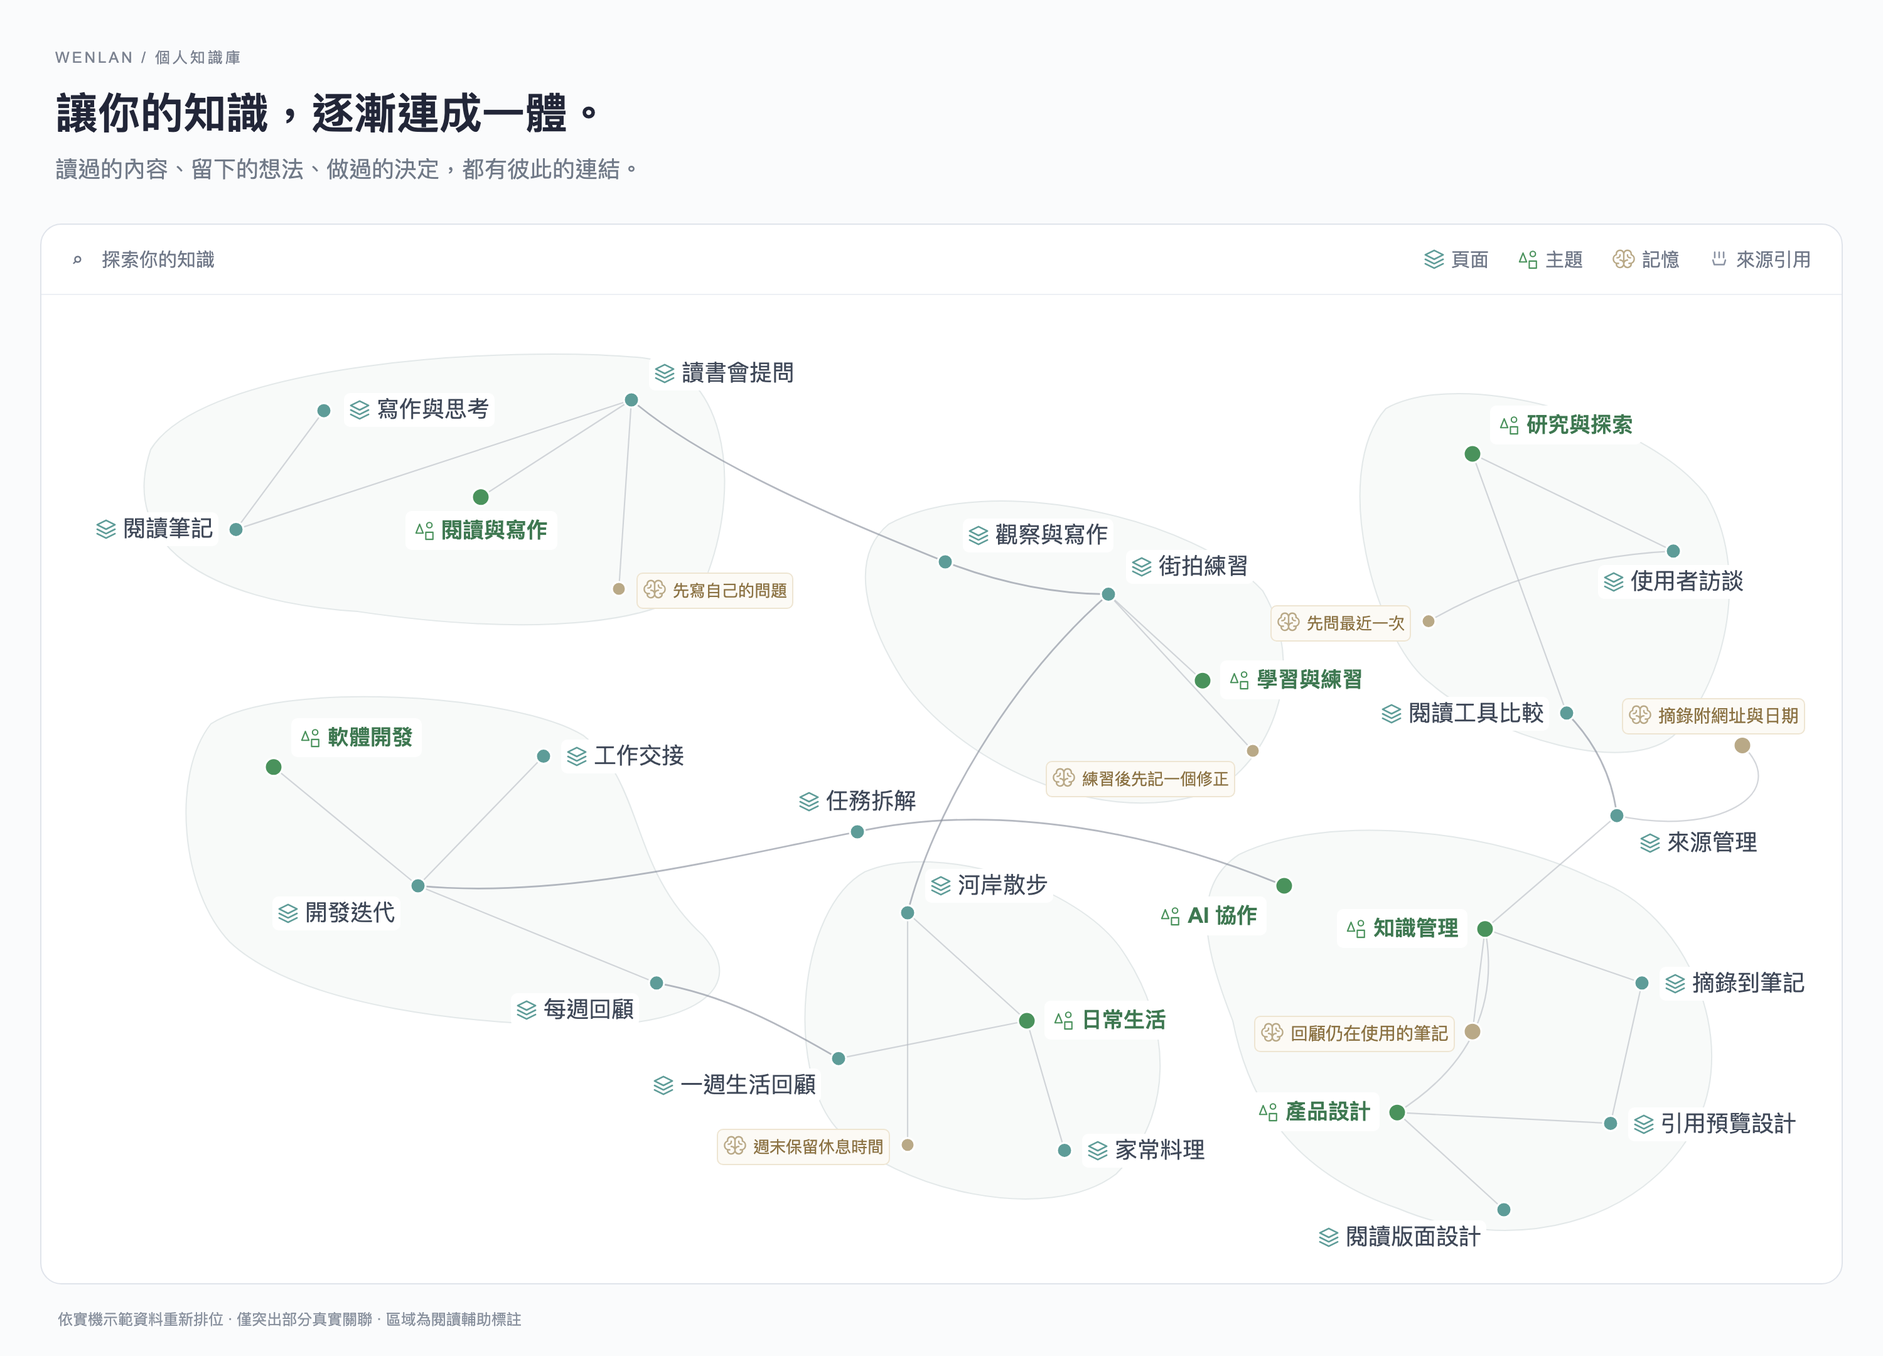
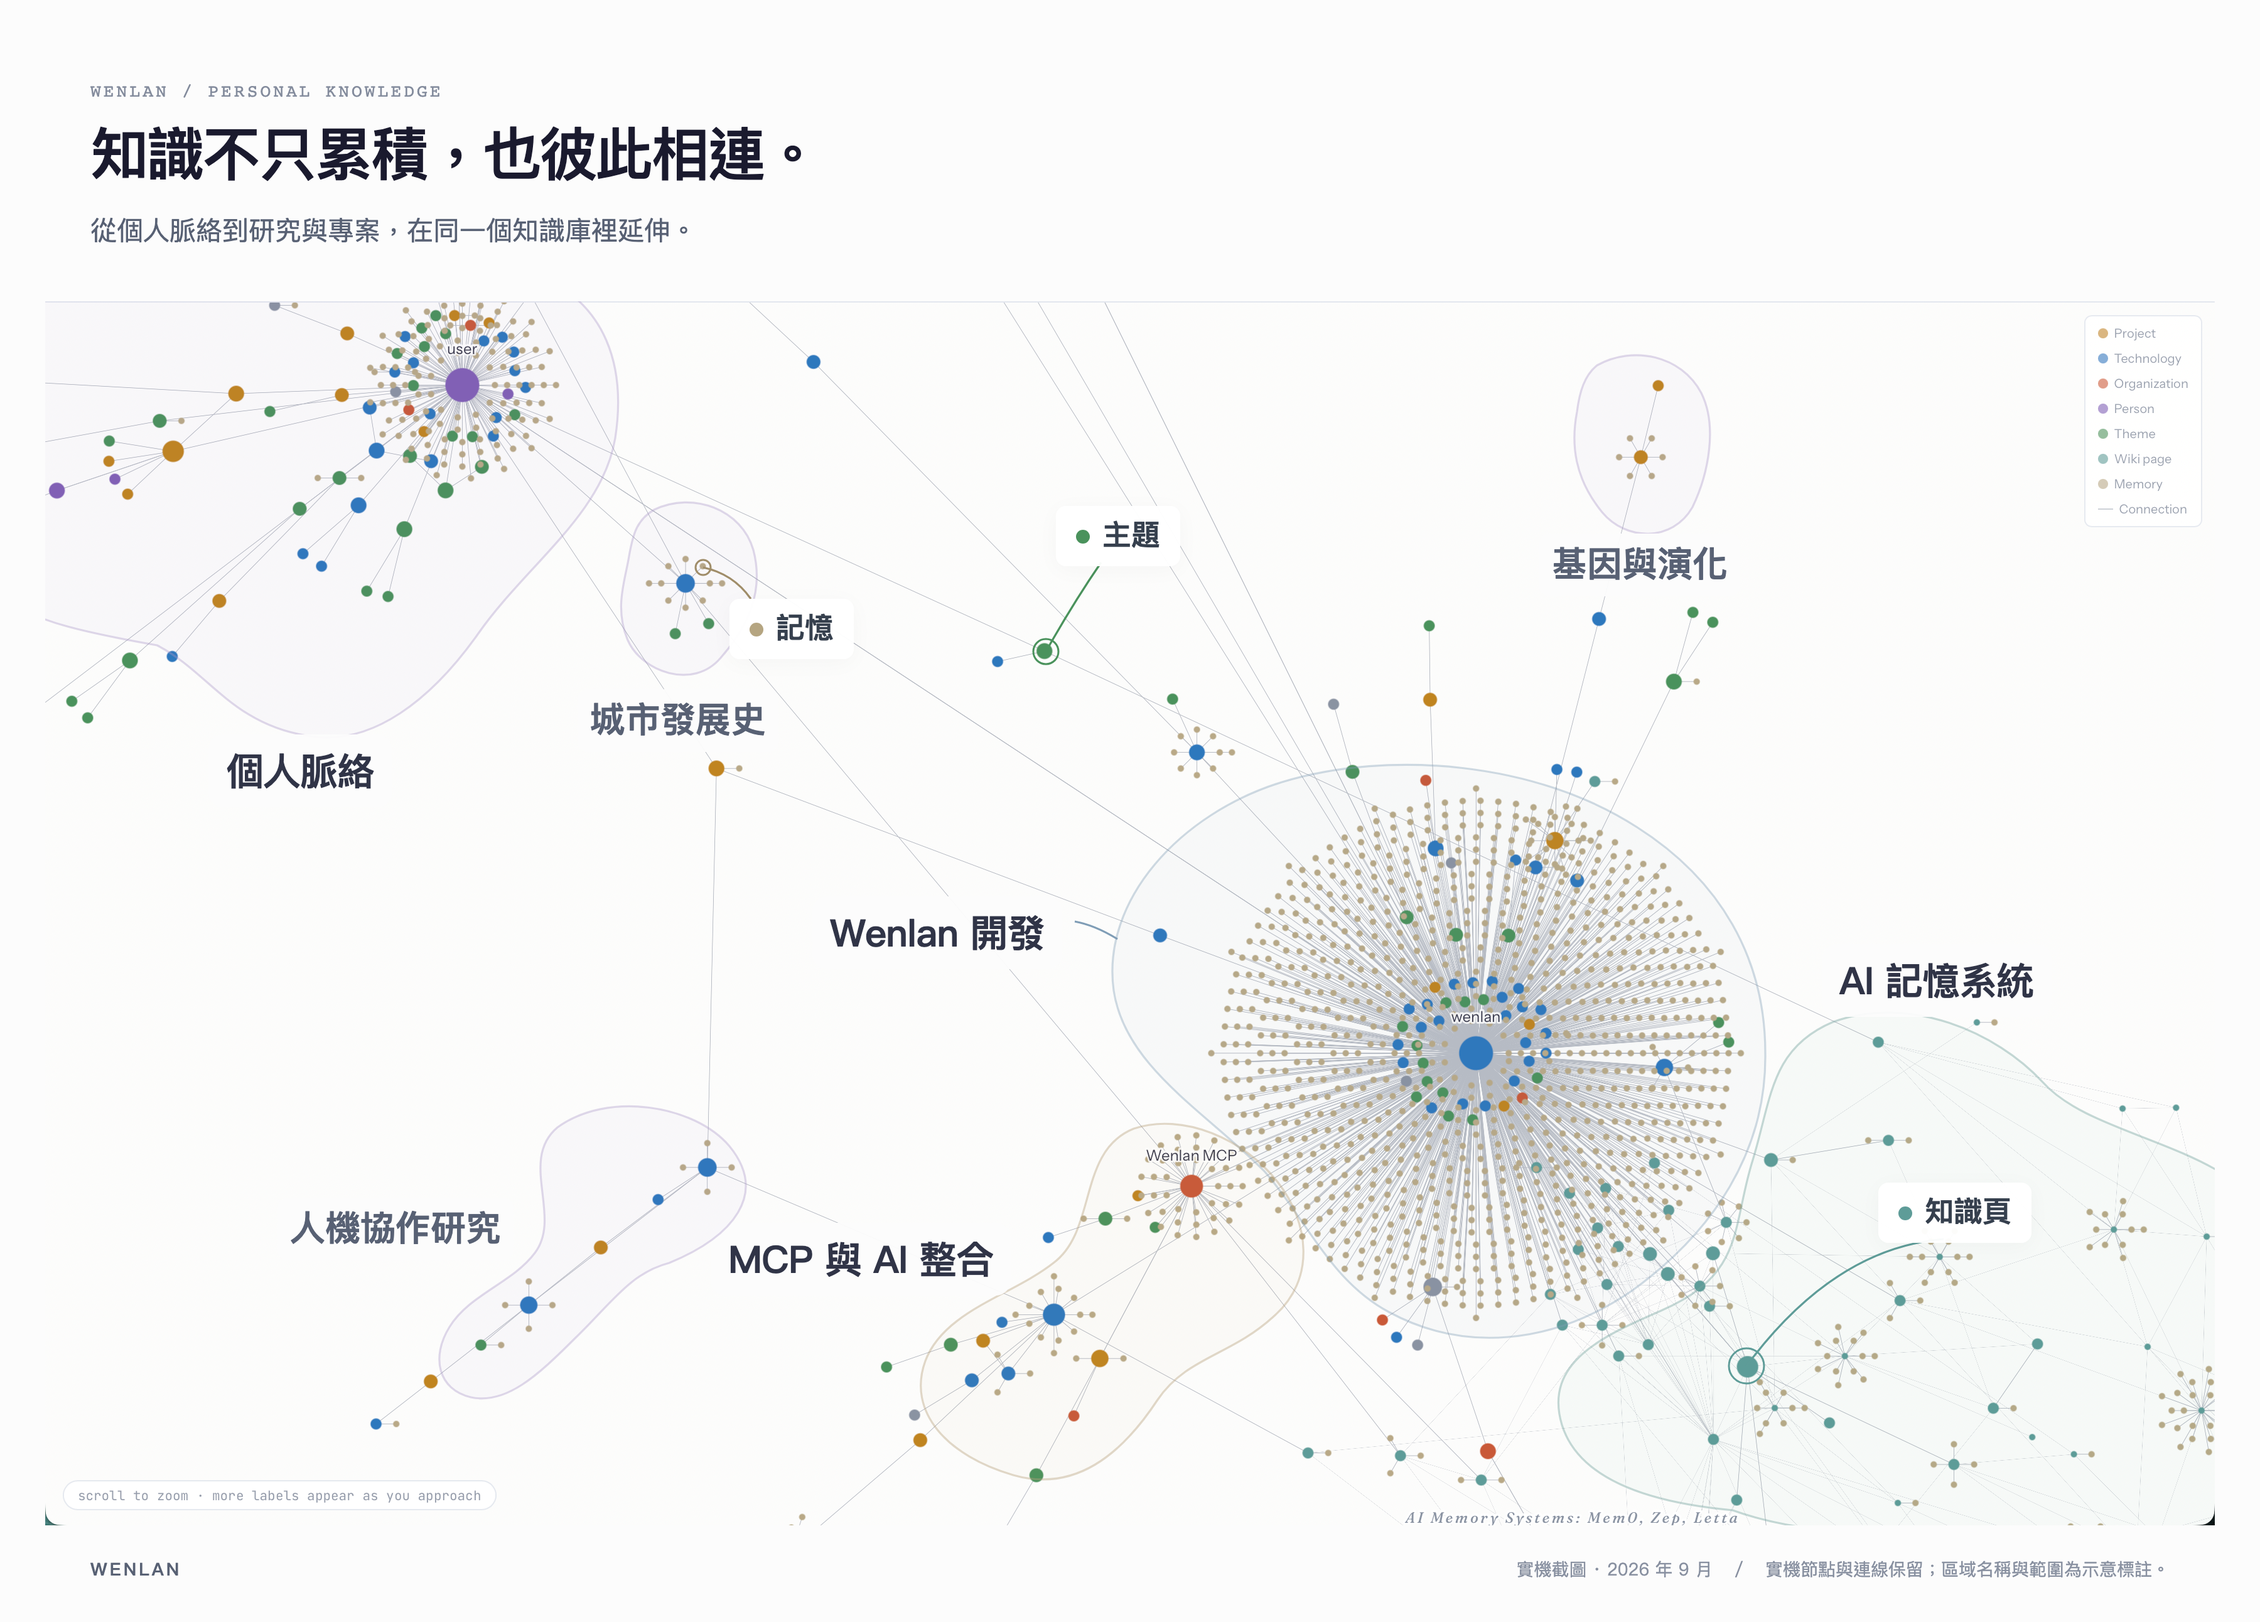
docs: use annotated real knowledge graph in README

diff --git a/docs/assets/README.md b/docs/assets/README.md
@@ -24,6 +24,6 @@ The four READMEs share these approved Traditional Chinese assets, with localized
[1 lines of base64/hex data omitted]
 - `wenlan-knowledge-to-work-zh-Hant.png`: approved v24 concept illustration. The project, Claude conversations, and resulting websites are illustrative, not screenshots of a measured AI comparison. It shows how keyword, semantic, and graph retrieval can bring additional Wenlan context into a task; it does not claim Claude lacks native memory.
 
[2 lines of base64/hex data omitted]
 
 The first two compositions remain unchanged. Older product captures and concept assets remain available for reference.

diff --git a/README.es-ES.md b/README.es-ES.md
@@ -1,4 +1,4 @@
-<!-- README_SYNC: source=README.md sha256=dde5947d438bfa82794368b322ef33550b1d060d71c3fc7b669dd9609636b33f -->
+<!-- README_SYNC: source=README.md sha256=512050cd37ab138bbd29bc74b64fe3fa6725b8c4a6c9749a693e21901aa433e7 -->
 
 <p align="center">
   <picture>
@@ -93,8 +93,8 @@ Los PDF escaneados necesitan extracción de texto antes de importarlos.
 ### Explora tu grafo de conocimiento personal
 
 <p align="center">
-  <img src="./docs/assets/wenlan-personal-graph-zh-Hant.png" alt="Lectura, aprendizaje, vida cotidiana, investigación y desarrollo conectados en Wenlan" width="100%">
-  <br><sub>Ilustración reorganizada a partir de datos de ejemplo de la app, conservando las relaciones reales.</sub>
+  <img src="./docs/assets/wenlan-personal-graph-zh-Hant.png" alt="Grafo real de Wenlan con regiones ilustrativas de intereses personales, investigación y desarrollo" width="100%">
+  <br><sub>Grafo real de la app; los nombres y límites de las regiones son ilustrativos.</sub>
 </p>
 
 <a id="what-wenlan-is-not"></a>

diff --git a/README.zh-Hans.md b/README.zh-Hans.md
@@ -1,4 +1,4 @@
-<!-- README_SYNC: source=README.md sha256=dde5947d438bfa82794368b322ef33550b1d060d71c3fc7b669dd9609636b33f -->
+<!-- README_SYNC: source=README.md sha256=512050cd37ab138bbd29bc74b64fe3fa6725b8c4a6c9749a693e21901aa433e7 -->
 
 <p align="center">
   <picture>
@@ -93,8 +93,8 @@ Wenlan 将笔记、文档和 AI 对话整理成可编辑且链接回来源的页
 ### 探索你的个人知识图谱
 
 <p align="center">
-  <img src="./docs/assets/wenlan-personal-graph-zh-Hant.png" alt="Wenlan 中彼此连接的阅读、学习、生活、研究与开发知识" width="100%">
-  <br><sub>根据实机示范数据调整布局的示意，保留真实关联。</sub>
+  <img src="./docs/assets/wenlan-personal-graph-zh-Hant.png" alt="Wenlan 实机知识图谱，搭配个人兴趣、研究与开发的区域示意" width="100%">
+  <br><sub>实机图谱；区域名称与范围为示意标注。</sub>
 </p>
 
 <a id="what-wenlan-is-not"></a>

diff --git a/README.zh-Hant.md b/README.zh-Hant.md
@@ -1,4 +1,4 @@
-<!-- README_SYNC: source=README.md sha256=dde5947d438bfa82794368b322ef33550b1d060d71c3fc7b669dd9609636b33f -->
+<!-- README_SYNC: source=README.md sha256=512050cd37ab138bbd29bc74b64fe3fa6725b8c4a6c9749a693e21901aa433e7 -->
 
 <p align="center">
   <picture>
@@ -93,8 +93,8 @@ Wenlan 將筆記、文件與 AI 對話整理成可編輯且連回來源的頁面
 ### 探索你的個人知識圖譜
 
 <p align="center">
-  <img src="./docs/assets/wenlan-personal-graph-zh-Hant.png" alt="Wenlan 中彼此連結的閱讀、學習、生活、研究與開發知識" width="100%">
-  <br><sub>根據實機示範資料調整布局的示意，保留真實關聯。</sub>
+  <img src="./docs/assets/wenlan-personal-graph-zh-Hant.png" alt="Wenlan 實機知識圖譜，搭配個人興趣、研究與開發的區域示意" width="100%">
+  <br><sub>實機圖譜；區域名稱與範圍為示意標註。</sub>
 </p>
 
 <a id="what-wenlan-is-not"></a>

diff --git a/README.md b/README.md
@@ -90,8 +90,8 @@ Scanned PDFs need text extraction before import.
 ### Explore your personal knowledge graph
 
 <p align="center">
-  <img src="./docs/assets/wenlan-personal-graph-zh-Hant.png" alt="Connected reading, learning, daily life, research, and development in Wenlan" width="100%">
-  <br><sub>Illustration rearranged from actual App demo data; real relationships preserved.</sub>
+  <img src="./docs/assets/wenlan-personal-graph-zh-Hant.png" alt="Wenlan knowledge graph with illustrative regions for personal interests, research, and development" width="100%">
+  <br><sub>Actual App graph; region names and boundaries are illustrative.</sub>
 </p>
 
 <a id="what-wenlan-is-not"></a>
